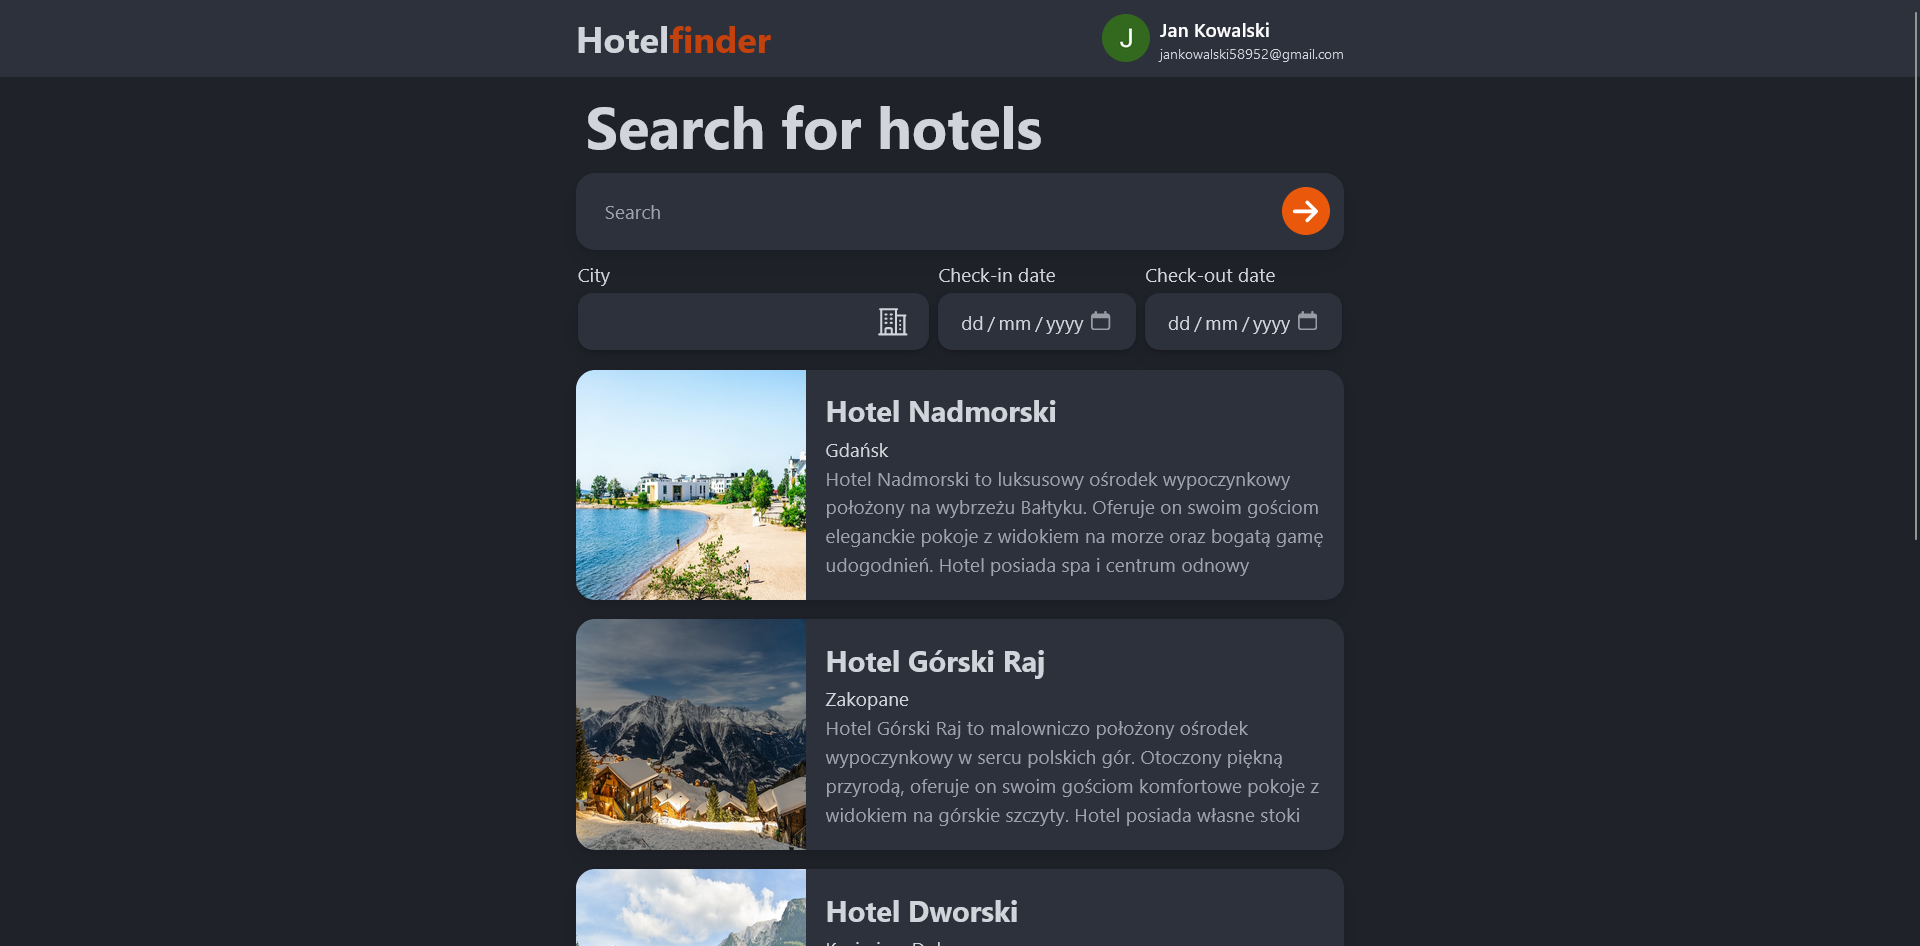
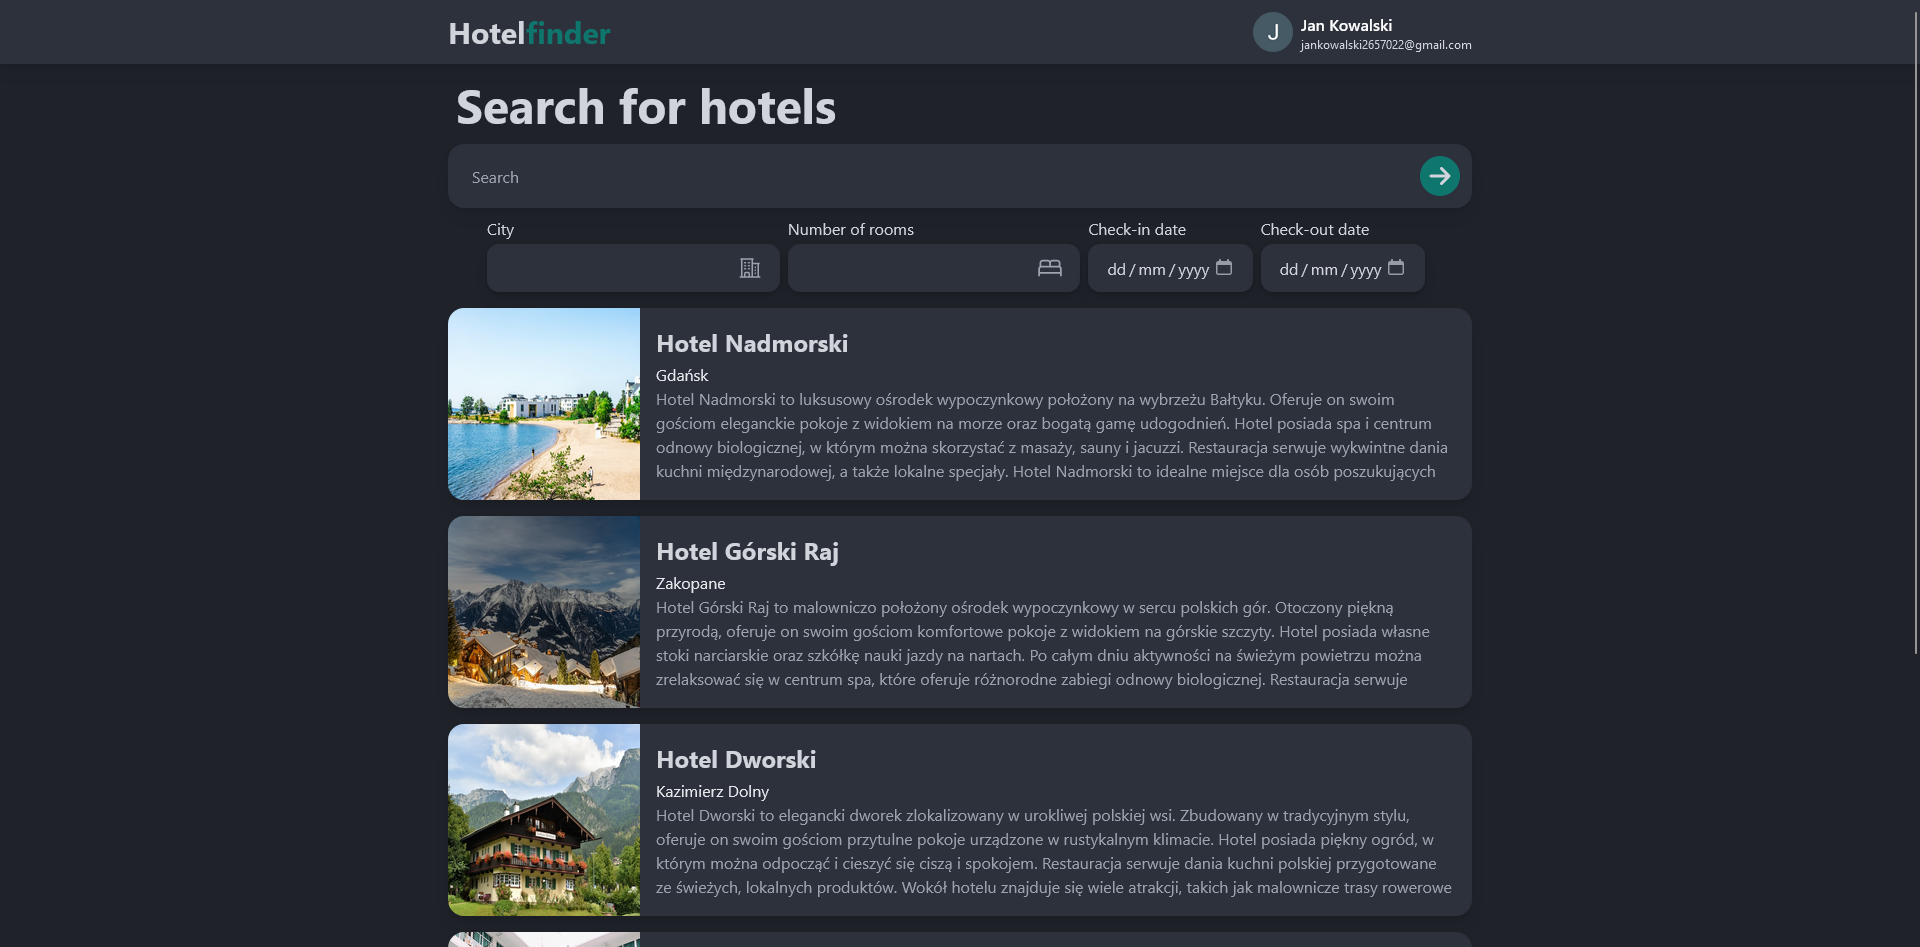
Update main page and hotel detail page styles

diff --git a/frontend/src/pages/HotelDetailPage.tsx b/frontend/src/pages/HotelDetailPage.tsx
@@ -1,9 +1,10 @@
-import {useParams} from "react-router-dom";
-import Navbar from "../components/Navbar";
-import {useEffect, useState} from "react";
-import {useGetSingleHotelQuery} from "../services/hotelApi";
-import Loading from "../components/Loading";
-import {useAuth0} from "@auth0/auth0-react";
+import {useParams} from "react-router-dom"
+import Navbar from "../components/Navbar"
+import {useEffect, useState} from "react"
+import {useGetSingleHotelQuery} from "../services/hotelApi"
+import Loading from "../components/Loading"
+import {useAuth0} from "@auth0/auth0-react"
+import {v4 as uuid4} from "uuid"
 
 export const HotelDetailPage = () => {
     const {id} = useParams()
@@ -14,10 +15,10 @@ export const HotelDetailPage = () => {
 
     const getAccessToken = async () => {
         try {
-            const token = await getAccessTokenSilently();
+            const token = await getAccessTokenSilently()
             setAccessToken(token)
         } catch (e: any) {
-            throw e;
+            throw e
         }
     }
 
@@ -30,13 +31,15 @@ export const HotelDetailPage = () => {
         isFetching: isGetSingleHotelFetching,
         isSuccess: isGetSingleHotelSuccess,
         isError: isGetSingleHotelError,
-    } = useGetSingleHotelQuery({
-        accessToken,
-        hotelId
-    }, {
-        skip: accessToken === "" ||
-            hotelId === ""
-    })
+    } = useGetSingleHotelQuery(
+        {
+            accessToken,
+            hotelId,
+        },
+        {
+            skip: accessToken === "" || hotelId === "",
+        }
+    )
 
     useEffect(() => {
         if (id !== undefined) {
@@ -44,32 +47,77 @@ export const HotelDetailPage = () => {
         }
     }, [id])
 
-
     if (getSingleHotelData === undefined) {
         return <Loading/>
     } else {
         const hotel = getSingleHotelData
-        return <>
-            <Navbar/>
-            <div className="flex justify-center">
-                <div className="w-160 p-4">
-                    <div className="bg-custom-blue-700 shadow-lg rounded-lg overflow-hidden">
-                        <img
-                            className="w-full h-64 object-cover object-center"
-                            src={hotel.image[0]}
-                            alt="hotel image"
-                        />
-                        <div className="p-6">
-                            <h2 className="text-3xl font-bold mb-2">{hotel.name}</h2>
-                            <p className="text-gray-200">
-                                {hotel.city}, {hotel.address}
-                            </p>
-                            <p className="font-semibold text-gray-400 mb-2">{hotel.phoneNumber}</p>
-                            <p className="text-gray-400">{hotel.description}</p>
+        return (
+            <>
+                <Navbar/>
+                <div className="flex justify-center">
+                    <div className="w-256 py-4">
+                        <div className="bg-custom-blue-700 shadow-lg rounded-lg overflow-hidden">
+                            <div className="flex flex-row">
+                                <img
+                                    className="h-128 w-192 object-cover"
+                                    src={hotel.image[0]}
+                                    alt="Main Hotel Image"
+                                />
+                                <div className="grid grid-cols-1">
+                                    {hotel.image.slice(1, 4).map((image, index) => (
+                                        <img
+                                            key={uuid4()}
+                                            className="h-32 w-128 object-cover"
+                                            src={image}
+                                            alt={`Hotel Image ${index + 1}`}
+                                        />
+                                    ))}
+                                    {hotel.image.length > 1 && (
+                                        <div
+                                            className="flex items-center justify-center w-full h-32 bg-gray-800 text-white">
+                                            <svg
+                                                xmlns="http://www.w3.org/2000/svg"
+                                                className="h-6 w-6"
+                                                fill="none"
+                                                viewBox="0 0 24 24"
+                                                stroke="currentColor"
+                                            >
+                                                <path
+                                                    strokeLinecap="round"
+                                                    strokeLinejoin="round"
+                                                    strokeWidth={2}
+                                                    d="M12 6v6m0 0v6m0-6h6m-6 0H6"
+                                                />
+                                            </svg>
+                                            {hotel.image.length - 4} photos
+                                        </div>
+                                    )}
+                                </div>
+                            </div>
+                            <div className="p-6">
+                                <div className="flex flex-row">
+                                    <h2 className="text-3xl font-bold mb-2 w-full">
+                                        {hotel.name}
+                                    </h2>
+                                    <div className="w-full justify-end flex">
+                                        <button>
+                                            Book a room
+                                        </button>
+                                    </div>
+                                </div>
+                                <p className="text-gray-200">
+                                    {hotel.city}, {hotel.address}
+                                </p>
+                                <p className="font-semibold text-gray-400 mb-2">
+                                    {hotel.phoneNumber}
+                                </p>
+                                <p className="text-gray-400">{hotel.description}</p>
+
+                            </div>
                         </div>
                     </div>
                 </div>
-            </div>
-        </>
+            </>
+        )
     }
 }

diff --git a/frontend/src/components/SearchBar.tsx b/frontend/src/components/SearchBar.tsx
@@ -1,9 +1,10 @@
 import {ReactComponent as Arrow} from "../icons/rightArrow.svg"
 import {ReactComponent as CityIcon} from "../icons/city.svg"
+import {ReactComponent as Bed} from "../icons/bed.svg"
 
 const SearchBar = () => {
     return <>
-        <div className="flex justify-center items-center bg-custom-blue-700 rounded-2xl w-160 drop-shadow-lg mb-2">
+        <div className="flex justify-center items-center bg-custom-blue-700 rounded-2xl w-256 drop-shadow-lg mb-2">
             <input
                 className="rounded-l-full w-full py-4 px-6 leading-tight focus:outline-none border-transparent bg-custom-blue-700"
                 id="search" type="text" placeholder="Search"/>
@@ -15,7 +16,7 @@ const SearchBar = () => {
             </div>
         </div>
 
-        <div className="flex flex-row mb-2">
+        <div className="flex flex-row mb-2 w-256 justify-center">
             <div>
                 <label htmlFor="cityInput">City</label>
                 <div
@@ -24,8 +25,23 @@ const SearchBar = () => {
                         className="w-full py-3 px-6 leading-tight focus:outline-none border-transparent rounded-xl bg-custom-blue-700"
                         id="cityInput" type="text"/>
                     <div className="pr-4">
-                        <div className="rounded-xl focus:outline-none w-7 h-1 flex items-center justify-center">
+                        <div className="rounded-xl focus:outline-none w-7 h-1 flex items-center justify-center text-gray-400">
                             <CityIcon/>
+                        </div>
+                    </div>
+                </div>
+            </div>
+
+            <div>
+                <label htmlFor="dateInput2">Number of rooms</label>
+                <div
+                    className="flex justify-center items-center bg-custom-blue-700 rounded-xl shadow drop-shadow-lg h-12 mr-2 mt-1">
+                    <input
+                        className="w-full py-3 px-6 leading-tight focus:outline-none border-transparent rounded-xl bg-custom-blue-700"
+                        id="cityInput" type="text"/>
+                    <div className="pr-4">
+                        <div className="rounded-xl focus:outline-none w-7 h-1 flex items-center justify-center text-gray-300">
+                            <Bed/>
                         </div>
                     </div>
                 </div>
@@ -43,7 +59,7 @@ const SearchBar = () => {
 
             <div>
                 <label htmlFor="dateInput2">Check-out date</label>
-                <div className="flex justify-center h-12 cursor-pointer mt-1">
+                <div className="flex justify-center h-12 cursor-pointer mt-1 mr-2">
                     <input type="date"
                            className="block appearance-none w-full bg-custom-blue-700 px-4 py-2 rounded-xl shadow focus:outline-none focus:shadow-outline drop-shadow-lg"
                            id="dateInput2">

diff --git a/frontend/tailwind.config.js b/frontend/tailwind.config.js
@@ -1,23 +1,25 @@
-/** @type {import('tailwindcss').Config} */
 module.exports = {
     content: ["./src/**/*.{js,jsx,ts,tsx}",
-        'node_modules/flowbite-react/**/*.{js,jsx,ts,tsx}',
-        './pages/**/*.{html,js}',
-        './components/**/*.{html,js}',
+        "node_modules/flowbite-react/**/*.{js,jsx,ts,tsx}",
+        "./pages/**/*.{html,js}",
+        "./components/**/*.{html,js}",
     ],
     theme: {
         fontFamily: {
-            'roboto': ['Roboto', 'sans-serif'],
+            "roboto": ["Roboto", "sans-serif"],
         },
         extend: {
             spacing: {
-                '128': '32rem',
-                '160': '40rem',
+                "128": "32rem",
+                "160": "40rem",
+                "192": "48rem",
+                "224": "52rem",
+                "256": "64rem",
             },
             colors: {
-                'custom-blue-900': '#1F2229',
-                'custom-blue-800': '#262A33',
-                'custom-blue-700': '#2D313C',
+                "custom-blue-900": "#1F2229",
+                "custom-blue-800": "#262A33",
+                "custom-blue-700": "#2D313C",
             },
         }
     },

diff --git a/frontend/src/services/commentsApi.tsx b/frontend/src/services/commentsApi.tsx
@@ -1,0 +1,30 @@
+import {createApi} from "@reduxjs/toolkit/query/react"
+import baseQuery from "../utils/baseQuery"
+import {Comment} from "../utils/Comment"
+import {ApiList} from "../utils/ApiList";
+
+export const commentsApi = createApi({
+    reducerPath: "CommentApi",
+    baseQuery: baseQuery,
+    endpoints: (builder) => ({
+        getComments: builder.query<ApiList<Comment>, string>({
+            query: (accessToken: string) => ({
+                url: "/comments",
+                method: "GET",
+                headers: {authorization: `Bearer ${accessToken}`},
+            }),
+        }),
+        getSingleComment: builder.query<Comment, { accessToken: string, commentId: string }>({
+            query: ({accessToken, commentId}) => ({
+                url: `/comments/${commentId}`,
+                method: "GET",
+                headers: {authorization: `Bearer ${accessToken}`},
+            }),
+        }),
+    })
+})
+
+export const {
+    useGetCommentsQuery,
+    useGetSingleCommentQuery
+} = commentsApi

diff --git a/frontend/src/components/Navbar.tsx b/frontend/src/components/Navbar.tsx
@@ -6,7 +6,7 @@ const Navbar = () => {
 
     return (
         <div className="h-16 bg-custom-blue-700 flex px-8 justify-center drop-shadow-lg">
-            <div className="flex items-center w-160">
+            <div className="flex items-center w-256">
                 <h1 className="text-3xl font-bold text-white-900 w-full">
                     Hotel<span className="text-teal-700">finder</span>
                 </h1>

diff --git a/frontend/src/pages/HomePage.tsx b/frontend/src/pages/HomePage.tsx
@@ -38,7 +38,7 @@ export const HomePage = () => {
         return <div className="custom-blue-900 h-screen">
             <Navbar/>
             <div className="flex flex-col items-center">
-                <div className="w-160">
+                <div className="w-256">
                     <p className="text-5xl font-bold my-4 mx-2">
                         Search for hotels
                     </p>

diff --git a/frontend/src/index.css b/frontend/src/index.css
@@ -10,6 +10,6 @@
     }
 
     button {
-        @apply bg-teal-700 rounded-2xl text-white p-3 hover:bg-teal-500;
+        @apply bg-teal-700 rounded-2xl text-white py-3 px-8 hover:bg-teal-600 drop-shadow-sm;
     }
 }

diff --git a/frontend/src/utils/Comment.tsx b/frontend/src/utils/Comment.tsx
@@ -1,0 +1,6 @@
+export type Comment = {
+    id: string,
+    description: string,
+    userId: string,
+    hotelId: string,
+}

diff --git a/Backend/Backend/Profiles/AutoMapperProfile.cs b/Backend/Backend/Profiles/AutoMapperProfile.cs
@@ -27,7 +27,6 @@ namespace Backend.Profiles
             var baseUri = "http://localhost:8088";
             var directoryPath = "./images";
             var files = Directory.GetFiles(directoryPath, hotelId + "_*.jpg").ToList();
-
             var allImageFilePaths = files.Select(file => Path.Combine(baseUri, file)).ToList();
 
             return allImageFilePaths;

diff --git a/Backend/Backend/Controllers/CommentsController.cs b/Backend/Backend/Controllers/CommentsController.cs
@@ -2,8 +2,6 @@
 using Microsoft.EntityFrameworkCore;
 using Backend.Models;
 using AutoMapper;
-using System.Xml;
-using System.Xml.Linq;
 
 namespace Backend.Controllers
 {

diff --git a/README.md b/README.md
@@ -7,7 +7,8 @@ A full-stack application built with React and ASP.NET Core API that allows users
   <img src="./res/main-page.png" alt="Main page">
 </div>
 
-Image sources: [Unsplash](https://unsplash.com/)
+Images: [Unsplash](https://unsplash.com/)
+Icons: [Heroicons](https://heroicons.com/)
 
 ## Features
 - User authorization using OAuth
@@ -18,7 +19,6 @@ Image sources: [Unsplash](https://unsplash.com/)
 - Pagination
 
 ## Technologies Used
-
 ### Backend
 - ASP.NET Core 7
 - C#
